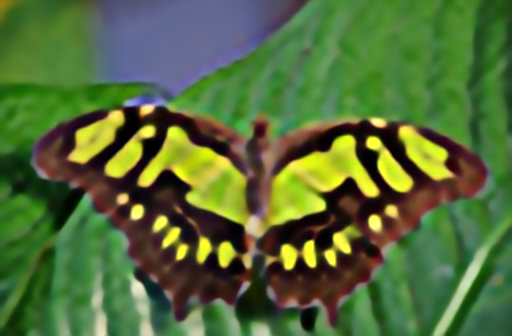
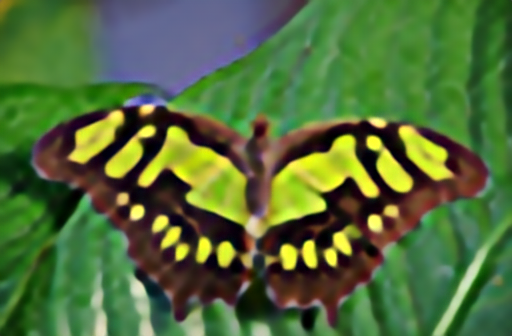
data normalization

diff --git a/test.py b/test.py
@@ -5,6 +5,7 @@ import time
 import cv2
 from importlib import import_module
 from loguru import logger
+from utils import denormalize_, normalize_
 
 def check_edsr_logs(args):
     log_root = args.log_root
@@ -18,12 +19,13 @@ def get_input_image(args):
     img = cv2.imread(args.test_file)
     file_name = os.path.basename(args.test_file).split('.')[0]
 
-    if args.normalization == 0:
-        pass
-    elif args.normalization == 1:
-        img = np.float32(img) / 255.0
-    else:
-        raise NotImplementedError
+    # if args.normalization == 0:
+    #     pass
+    # elif args.normalization == 1:
+    #     img = np.float32(img) / 255.0
+    # else:
+    #     raise NotImplementedError
+    img = normalize_(img, type=args.normalization)
 
     img = np.transpose(img, (2, 0, 1)).astype(np.float32)
     img = torch.from_numpy(img)
@@ -58,14 +60,16 @@ def test(args):
         data = get_input_image(args)
         y_hat = model(data['img'])
         y_hat = y_hat[0].cpu().numpy()
+        y_hat = np.transpose(y_hat, (1, 2, 0))
+
+        # if args.normalization == 1:
+        #     y_hat = y_hat * 255.0
+        y_hat = denormalize_(y_hat, args.normalization)
 
         # clip is really important, otherwise the anomaly rgb noise data exists
         y_hat = np.clip(y_hat, 0.0, 255.0)
 
-        if args.normalization == 1:
-            y_hat = y_hat * 255.0
         y_hat = np.uint8(y_hat)
-        y_hat = np.transpose(y_hat, (1, 2, 0))
         end = time.time()
         dt = end - start
         logger.info(f"Test file {args.test_file} costs {dt}ms.")
@@ -75,13 +79,13 @@ def test(args):
 if __name__ == "__main__":
     from option import args
 
-    args.test_file = 'D:/Dataset/DIV2K/0801x8.png'
+    args.test_file = 'images/0829x8.png'
     args.scale = 8
     args.res_scale = 0.1
 
     # no normalization
     args.last_act = None
-    args.normalization = 0
+    args.normalization = 2
 
     # divided by 255.0
     # args.last_act = 'sigmoid'

diff --git a/dataloader.py b/dataloader.py
@@ -6,6 +6,7 @@ import torch
 from loguru import logger
 from torch.utils.data import Dataset
 import numpy as np
+from utils import normalize_
 
 def get_patch(hr_img, lr_img, patch_size=96, scale=4):
     lh, lw = lr_img.shape[0], lr_img.shape[1]
@@ -65,8 +66,8 @@ class SRDataset(Dataset):
         return self.len
 
     def __getitem__(self, idx):
-        hr_img = cv2.imread(self.hr_lists[idx])
-        lr_img = cv2.imread(self.lr_lists[idx])
+        hr_img = cv2.imread(self.hr_lists[idx]).astype(np.float32)
+        lr_img = cv2.imread(self.lr_lists[idx]).astype(np.float32)
         file_name = os.path.basename(self.hr_lists[idx]).split('.')[0]
 
         if self.need_patch:
@@ -79,13 +80,15 @@ class SRDataset(Dataset):
             patch_pair = augment(patch_pair)
 
         # normalization
-        if self.normalization == 0:
-            pass
-        elif self.normalization == 1:
-            patch_pair['hr_patch'] = patch_pair['hr_patch'] / 255.0
-            patch_pair['lr_patch'] = patch_pair['lr_patch'] / 255.0
-        else:
-            raise NotImplementedError
+        # if self.normalization == 0:
+        #     pass
+        # elif self.normalization == 1:
+        #     patch_pair['hr_patch'] = patch_pair['hr_patch'] / 255.0
+        #     patch_pair['lr_patch'] = patch_pair['lr_patch'] / 255.0
+        # else:
+        #     raise NotImplementedError
+        patch_pair['hr_patch'] = normalize_(patch_pair['hr_patch'], type=self.normalization)
+        patch_pair['lr_patch'] = normalize_(patch_pair['lr_patch'], type=self.normalization)
 
         patch_pair['hr_patch'] = np.transpose(patch_pair['hr_patch'], (2, 0, 1)).astype(np.float32)
         patch_pair['lr_patch'] = np.transpose(patch_pair['lr_patch'], (2, 0, 1)).astype(np.float32)

diff --git a/train.py b/train.py
@@ -10,6 +10,7 @@ from dataloader import SRDataset
 from torch.utils.data import DataLoader
 from torch.utils.tensorboard import SummaryWriter
 from torch.optim.lr_scheduler import StepLR
+from utils import denormalize_
 
 def check_edsr_logs(args):
     log_root = args.log_root
@@ -158,9 +159,15 @@ def train(args):
                 y_hat = y_hat[0].detach().cpu().numpy()
                 y = np.transpose(y, (1, 2, 0))
                 y_hat = np.transpose(y_hat, (1, 2, 0))
-                if args.normalization == 1:
-                    y = y * 255.0
-                    y_hat = y_hat * 255.0
+                # if args.normalization == 1:
+                #     y = y * 255.0
+                #     y_hat = y_hat * 255.0
+                y = denormalize_(y, args.normalization)
+                y_hat = denormalize_(y_hat, args.normalization)
+                # clip is really important, otherwise the anomaly rgb noise data exists
+                y = np.clip(y, 0.0, 255.0)
+                y_hat = np.clip(y_hat, 0.0, 255.0)
+
                 _res = np.concatenate([y_hat, y], axis=1).astype(np.uint8)
                 cv2.imwrite(os.path.join(args.log_img_root, f'{epoch}_{batch}.png'), _res)
 
@@ -191,7 +198,7 @@ if __name__ == "__main__":
     args.last_act = None
     args.augment = True
 
-    args.normalization = 0
+    args.normalization = 2
 
     with torch.autograd.detect_anomaly():
         train(args)

diff --git a/utils.py b/utils.py
@@ -1,0 +1,39 @@
+import numpy as np
+
+DIV2K_Statics = {'mean': (0.4488, 0.4371, 0.4040),
+                 'std': (1.0, 1.0, 1.0)}
+
+def normalize_(x, type=0):
+    # assert type(x) is np.ndarray
+    assert len(x.shape) == 3 and x.shape[2] == 3
+
+    x = x.astype(np.float32)
+    if type==0:
+        pass
+    elif type==1:
+        x = x / 255.0
+    elif type==2:
+        x[:, :, 0] = (x[:, :, 0] - (DIV2K_Statics['mean'][0] * 255.0)) / DIV2K_Statics['std'][0]
+        x[:, :, 1] = (x[:, :, 1] - (DIV2K_Statics['mean'][1] * 255.0)) / DIV2K_Statics['std'][1]
+        x[:, :, 2] = (x[:, :, 2] - (DIV2K_Statics['mean'][2] * 255.0)) / DIV2K_Statics['std'][2]
+    else:
+        raise NotImplementedError
+
+    return x
+
+def denormalize_(x, type=0):
+    # assert type(x) is np.ndarray
+    assert len(x.shape) == 3 and x.shape[2] == 3
+    x = x.astype(np.float32)
+    if type == 0:
+        pass
+    elif type == 1:
+        x = x * 255.0
+    elif type == 2:
+        x[:, :, 0] = (x[:, :, 0] * DIV2K_Statics['std'][0]) + (DIV2K_Statics['mean'][0] * 255.0)
+        x[:, :, 1] = (x[:, :, 1] * DIV2K_Statics['std'][1]) + (DIV2K_Statics['mean'][1] * 255.0)
+        x[:, :, 2] = (x[:, :, 2] * DIV2K_Statics['std'][2]) + (DIV2K_Statics['mean'][2] * 255.0)
+    else:
+        raise NotImplementedError
+
+    return x
